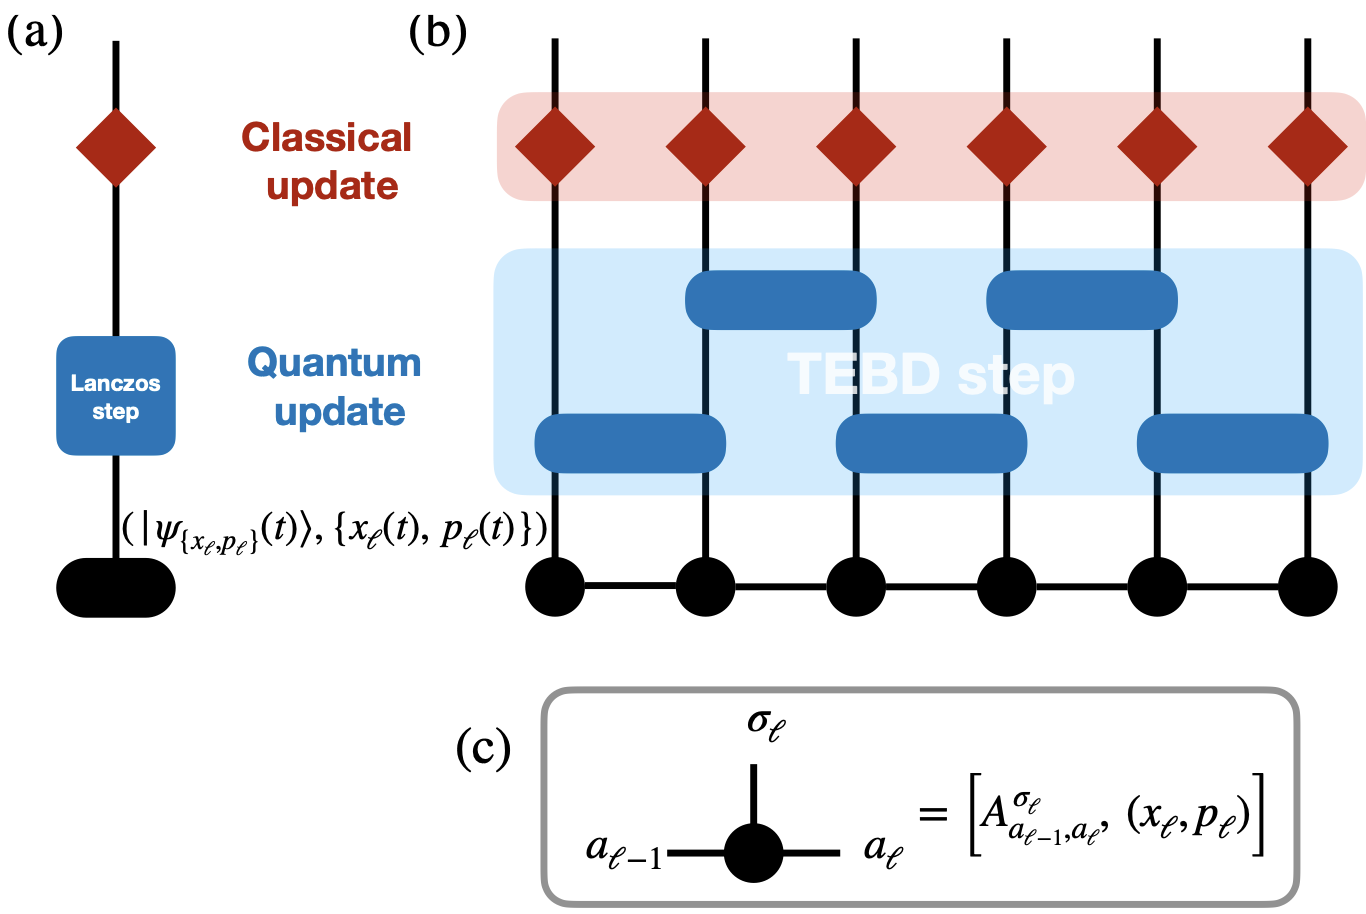
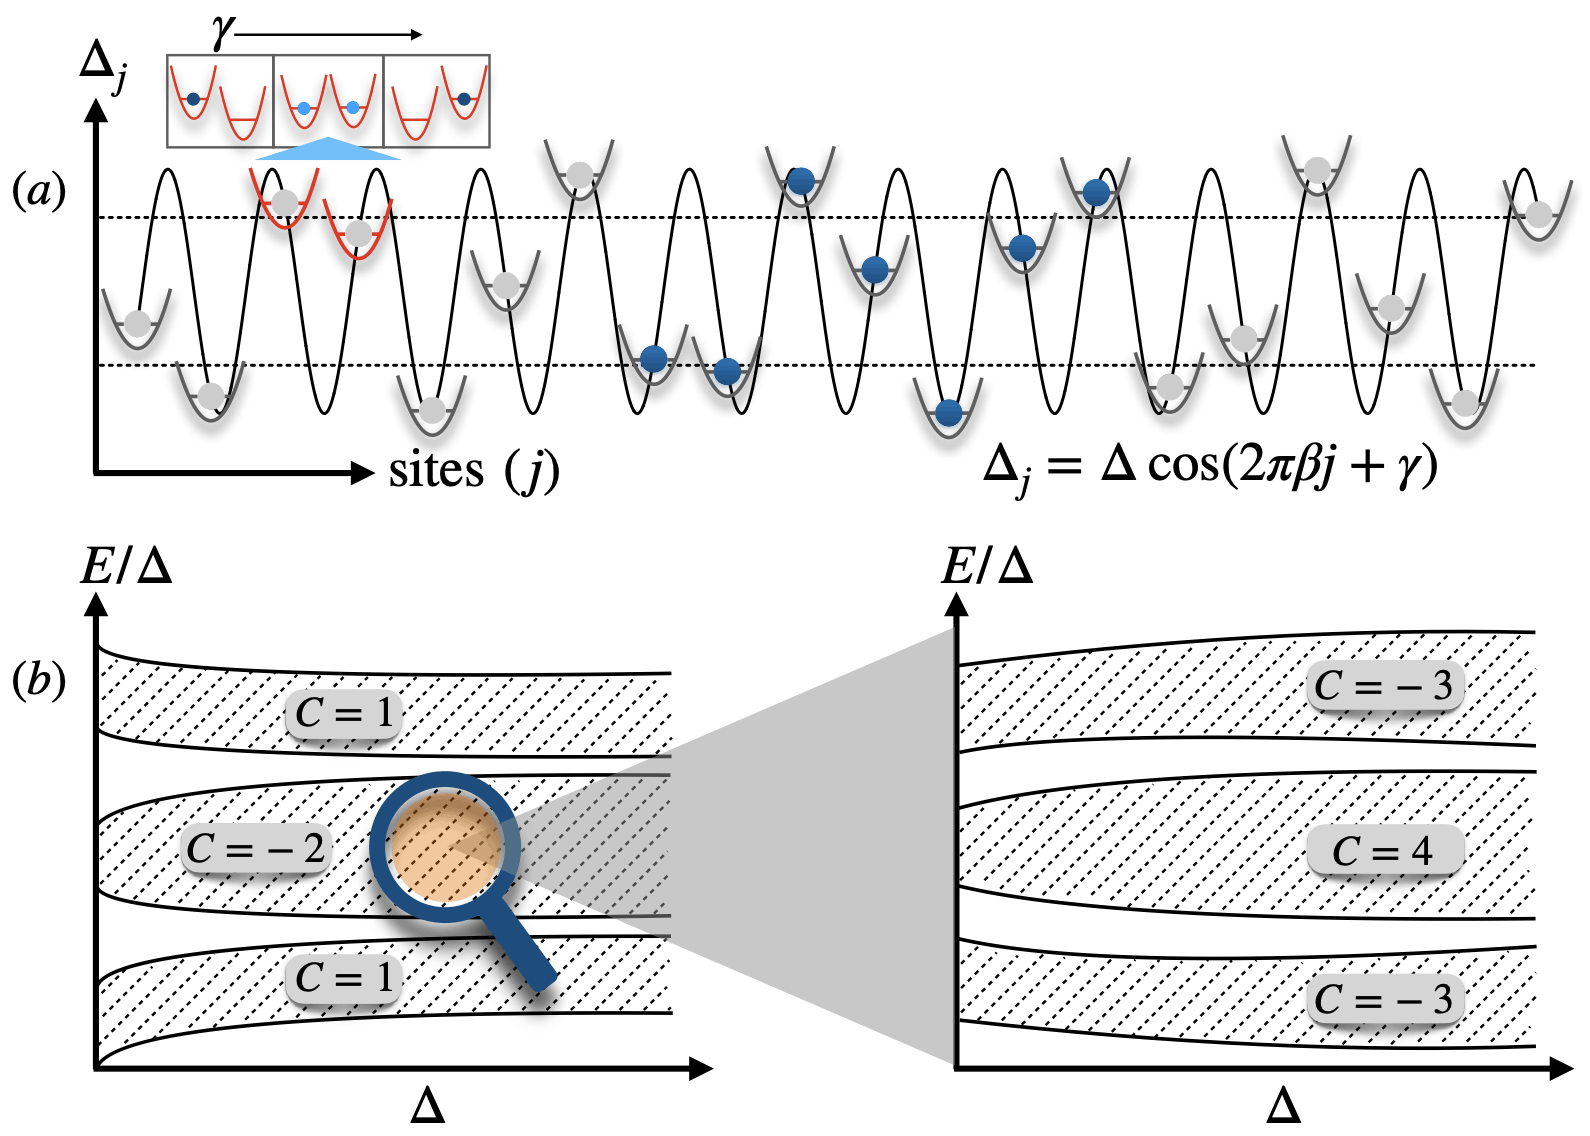
Floquet DMRG added

diff --git a/research.html b/research.html
@@ -31,11 +31,11 @@
             <a href="#thouless" class="blue-text-tag">2.2. Thouless pumps</a>
 
             <a href="#non-equilibrium" class="green-text-tag"><strong>3. Non-Equilibrium Physics →</strong></a>
-            <a href="#few-body" class="blue-text-tag">3.1. Few-body dynamics</a>
-            <a href="#mbl" class="blue-text-tag">3.2. Many-body localization</a>
-            <a href="#kcms" class="blue-text-tag">3.3. Kinetically constrained systems</a>
-            <a href="#electron-phonon" class="blue-text-tag">3.4. Electron-Phonon systems</a>
-            <a href="#floquet" class="blue-text-tag">3.5. Periodically driven systems</a>
+            <a href="#floquet" class="blue-text-tag">3.1. Periodically driven systems</a>
+            <a href="#few-body" class="blue-text-tag">3.2. Few-body dynamics</a>
+            <a href="#mbl" class="blue-text-tag">3.3. Many-body localization</a>
+            <a href="#kcms" class="blue-text-tag">3.4. Kinetically constrained systems</a>
+            <a href="#electron-phonon" class="blue-text-tag">3.5. Electron-Phonon systems</a>
 
             <a href="#quantum-computation" class="green-text-tag"><strong>4. Quantum computation</strong></a>
         </div>
@@ -205,8 +205,47 @@
         <div id="non-equilibrium">
             <h2 style="margin-top: 1.5rem; color: var(--accent-green);">3. Non-Equilibrium Physics</h2>
 
+            <div class="research-topic" id="floquet">
+                <h3>3.1. Periodically driven systems</h3>
+                <div class="research-topic-content">
+                    <img src="research/images/floquet.png" alt="Periodically Driven Systems" class="research-image">
+                    <div class="research-content">
+                        <p>
+                            Periodically driven (Floquet) systems offer a powerful route to engineer
+                            non-equilibrium phases of matter that have no equilibrium counterpart such as
+                            Floquet topological phases, time crystals, and dynamically stabilised order.
+                        </p>
+                        <p style="margin-top: 0.8rem;">
+                            Clean, interacting, periodically driven systems are believed to thermalize to featureless, infinite-temperature states 
+                            that preclude the formation of stable ordered states. In our work, we show stable quantum order, distinct from prethermal order, 
+                            and its phase transitions in the ground state of the average-energy operator. Decomposing the time evolution into geometric 
+                            and average-energy dynamics, we apply Geometric Floquet theory to identify the Floquet ground state. 
+                            We derive a general variational principle to compute the Floquet ground state in large interacting periodically driven systems, 
+                            and use it to develop a matrix product state algorithm. 
+                            In driven nonintegrable chains of more than 100 interacting spins, our numerical simulations exhibit a gapped, area-law entangled Floquet 
+                            ground state in extended parameter regimes; the ground-state manifold can support both dressed equilibrium order (e.g., Floquet antiferromagnets) 
+                            and inherently nonequilibrium order (e.g., ground-state time crystals). This quantum order is protected by a finite average-energy gap, 
+                            which closes at phase transition points upon changing model parameters. We decompose Floquet phases of matter into their equilibrium and nonequilibrium elements: 
+                            whereas the Floquet ground state at any fixed time is a representative of an equilibrium phase of matter, the nonequilibrium content is entirely produced by the 
+                            drive holonomy and is geometric. As a mechanism for the stability against heating of gapped Floquet ground states in nonintegrable quantum systems, we identify quasilocal counterdiabatic driving, 
+                            and argue why Floquet ground states evade the Eigenstate Thermalization Hypothesis. Our work enables the study of interacting nonequilibrium matter deep into 
+                            the many-body regime, and lays the foundations for the engineering of strongly correlated ordered quantum states.
+                        </p>
+                        <p style="margin-top: 0.8rem;"><strong>Relevant publications:</strong></p>
+                        <ul style="margin-left: 1.5rem; line-height: 1.8;">
+                            <li>
+                                S. M., Paul M. Schindler and Marin Bukov,
+                                <em>Floquet ground state order</em>,
+                                <a href="https://doi.org/10.48550/arXiv.2610.28336" target="_blank">arXiv:2610.28336 (2026)</a>.
+                            </li>
+                        </ul>
+                    </div>
+                </div>
+            </div>
+            
+
             <div class="research-topic" id="few-body">
-                <h3>3.1. Few-body dynamics</h3>
+                <h3>3.2. Few-body dynamics</h3>
                 <div class="research-topic-content">
                     <img src="research/images/few_body.png" alt="Few-body Dynamics" class="research-image">
                     <div class="research-content">
@@ -248,7 +287,7 @@
             </div>
 
             <div class="research-topic" id="mbl">
-                <h3>3.2. Many-body localization</h3>
+                <h3>3.3. Many-body localization</h3>
                 <div class="research-topic-content">
                     <img src="research/images/mbl.png" alt="Many-body Localization" class="research-image">
                     <div class="research-content">
@@ -289,7 +328,7 @@
             </div>
 
             <div class="research-topic" id="kcms">
-                <h3>3.3. Kinetically constrained systems</h3>
+                <h3>3.4. Kinetically constrained systems</h3>
                 <div class="research-topic-content">
                     <img src="research/images/kcm.png" alt="Kinetically Constrained Models" class="research-image">
                     <div class="research-content">
@@ -319,7 +358,7 @@
             </div>
 
             <div class="research-topic" id="electron-phonon">
-                <h3>3.4. Electron-Phonon systems</h3>
+                <h3>3.5. Electron-Phonon systems</h3>
                 <div class="research-topic-content">
                     <img src="research/images/e_ph.png" alt="Electron-Phonon Systems" class="research-image">
                     <div class="research-content">
@@ -348,44 +387,6 @@
                                 S. M., E. Bertok, and F. Heidrich-Meisner,
                                 <em>Phonon-induced breakdown of Thouless pumping in the Rice-Mele-Holstein model</em>,
                                 <a href="https://journals.aps.org/prb/abstract/10.1103/PhysRevB.106.235118" target="_blank">Phys. Rev. B 106, 235118 (2022)</a>.
-                            </li>
-                        </ul>
-                    </div>
-                </div>
-            </div>
-
-            <div class="research-topic" id="floquet">
-                <h3>3.5. Periodically driven systems</h3>
-                <div class="research-topic-content">
-                    <img src="research/images/floquet.png" alt="Periodically Driven Systems" class="research-image">
-                    <div class="research-content">
-                        <p>
-                            Periodically driven (Floquet) systems offer a powerful route to engineer
-                            non-equilibrium phases of matter that have no equilibrium counterpart such as
-                            Floquet topological phases, time crystals, and dynamically stabilised order.
-                        </p>
-                        <p style="margin-top: 0.8rem;">
-                            Clean, interacting, periodically driven systems are believed to thermalize to featureless, infinite-temperature states 
-                            that preclude the formation of stable ordered states. In our work, we show stable quantum order, distinct from prethermal order, 
-                            and its phase transitions in the ground state of the average-energy operator. Decomposing the time evolution into geometric 
-                            and average-energy dynamics, we apply Geometric Floquet theory to identify the Floquet ground state. 
-                            We derive a general variational principle to compute the Floquet ground state in large interacting periodically driven systems, 
-                            and use it to develop a matrix product state algorithm. 
-                            In driven nonintegrable chains of more than 100 interacting spins, our numerical simulations exhibit a gapped, area-law entangled Floquet 
-                            ground state in extended parameter regimes; the ground-state manifold can support both dressed equilibrium order (e.g., Floquet antiferromagnets) 
-                            and inherently nonequilibrium order (e.g., ground-state time crystals). This quantum order is protected by a finite average-energy gap, 
-                            which closes at phase transition points upon changing model parameters. We decompose Floquet phases of matter into their equilibrium and nonequilibrium elements: 
-                            whereas the Floquet ground state at any fixed time is a representative of an equilibrium phase of matter, the nonequilibrium content is entirely produced by the 
-                            drive holonomy and is geometric. As a mechanism for the stability against heating of gapped Floquet ground states in nonintegrable quantum systems, we identify quasilocal counterdiabatic driving, 
-                            and argue why Floquet ground states evade the Eigenstate Thermalization Hypothesis. Our work enables the study of interacting nonequilibrium matter deep into 
-                            the many-body regime, and lays the foundations for the engineering of strongly correlated ordered quantum states.
-                        </p>
-                        <p style="margin-top: 0.8rem;"><strong>Relevant publications:</strong></p>
-                        <ul style="margin-left: 1.5rem; line-height: 1.8;">
-                            <li>
-                                S. M., Paul M. Schindler and Marin Bukov,
-                                <em>Floquet ground state order</em>,
-                                <a href="https://doi.org/10.48550/arXiv.2610.28336" target="_blank">arXiv:2610.28336 (2026)</a>.
                             </li>
                         </ul>
                     </div>

diff --git a/numerical.html b/numerical.html
@@ -52,10 +52,10 @@
             <a href="#ED" class="blue-text-tag">1. Exact Diagonalization</a>
             <a href="#CMFT" class="blue-text-tag">2. Cluster Mean Field Theory</a>
             <a href="#MPS" class="blue-text-tag">3. Matrix Product State (MPS)</a>
-            <a href="#DMRG" class="blue-text-tag">4. Drnsity Matrix Renormalization Group (DMRG)</a>
-            <a href="#FDMRG" class="blue-text-tag">5. Floquet DMRG</a>
+            <a href="#DMRG" class="blue-text-tag">4. Density Matrix Renormalization Group (DMRG)</a>
             <a href="#TEBD" class="blue-text-tag">6. Time-Evolution Block Decimation (TEBD)</a>
             <p class="red-text-tag">Our contributions →</p>
+            <a href="#FDMRG" class="blue-text-tag">5. Floquet DMRG</a>
             <a href="#semiclassical-tebd" class="blue-text-tag">7. Semi-classical TEBD</a>
         </div>
         
@@ -175,8 +175,34 @@
                 </div>
             </div>
 
+            <div class="research-topic" id="TEBD">
+                <h3>5. Time-Evolution Block Decimation</h3>
+                <div class="research-topic-content">
+                    <img src="numerical/images/TEBD/tebd.svg" alt="TEBD" class="research-image-medium">
+                    <div class="research-content">
+                        <p>
+                            The time evolution of a quantum state of a strongly correlated 
+                            many-body system with time-dependent Hamiltonian is a highly 
+                            nontrivial problem. Because of the tremendous success of the DMRG 
+                            method in addressing the equilibrium properties of strongly 
+                            correlated systems, different attempts have been made to study 
+                            non-equilibrium properties using the time-dependent DMRG 
+                            method. G. Vidal 
+                            developed an algorithm to simulate the time evolution of the 
+                            many-body states. In the algorithm, the truncated
+                            Hilbert space dynamically adapts itself for better accuracy. This 
+                            algorithm is called the time-evolving block decimation (TEBD), which 
+                            fits perfectly with the MPS framework.
+                        </p>
+                        <p style="margin-top: 1rem;">
+                            <a href="/numerical/TEBD" class="read-more-link">Learn more →</a>
+                        </p>
+                    </div>
+                </div>
+            </div>
+
             <div class="research-topic" id="FDMRG">
-                <h3>5. Floquet DMRG</h3>
+                <h3>6. Floquet DMRG</h3>
                 <div class="research-topic-content">
                     <img src="numerical/images/FDMRG/fdmrg.png" alt="Floquet DMRG" class="research-image">
                     <div class="research-content">
@@ -213,32 +239,6 @@
                                 <a href="https://doi.org/10.48550/arXiv.2610.28336" target="_blank">arXiv:2610.28336 (2026)</a>.
                             </li>
                         </ul>
-                    </div>
-                </div>
-            </div>
-
-            <div class="research-topic" id="TEBD">
-                <h3>6. Time-Evolution Block Decimation</h3>
-                <div class="research-topic-content">
-                    <img src="numerical/images/TEBD/tebd.svg" alt="TEBD" class="research-image-medium">
-                    <div class="research-content">
-                        <p>
-                            The time evolution of a quantum state of a strongly correlated 
-                            many-body system with time-dependent Hamiltonian is a highly 
-                            nontrivial problem. Because of the tremendous success of the DMRG 
-                            method in addressing the equilibrium properties of strongly 
-                            correlated systems, different attempts have been made to study 
-                            non-equilibrium properties using the time-dependent DMRG 
-                            method. G. Vidal 
-                            developed an algorithm to simulate the time evolution of the 
-                            many-body states. In the algorithm, the truncated
-                            Hilbert space dynamically adapts itself for better accuracy. This 
-                            algorithm is called the time-evolving block decimation (TEBD), which 
-                            fits perfectly with the MPS framework.
-                        </p>
-                        <p style="margin-top: 1rem;">
-                            <a href="/numerical/TEBD" class="read-more-link">Learn more →</a>
-                        </p>
                     </div>
                 </div>
             </div>

diff --git a/index.html b/index.html
@@ -113,7 +113,7 @@
                     <p class="blue-text-tag">Electron-Phonon systems</p>
                     <p class="blue-text-tag">Periodically driven systems</p>
 
-                    <p class="blue-text-tag">Quantum computation</p>
+                    <!-- <p class="blue-text-tag">Quantum computation</p> -->
                     <p class="blue-text-tag">Matrix Product States</p>
                     <p class="blue-text-tag">DMRG</p>
                     <p class="blue-text-tag">Floquet DMRG</p>
@@ -131,6 +131,22 @@
             <div class="publication">
                 <div class="publication-content">
                     <div class="publication-title">
+                        Floquet ground state order
+                    </div>
+                    <div class="publication-authors">
+                        <strong>Suman Mondal</strong>, Paul M. Schindler and Marin Bukov
+                    </div>
+                    <div class="publication-venue">
+                        arXiv:2610.28336 (2026)
+                    </div>
+                    <a href="https://doi.org/10.48550/arXiv.2610.28336" target="_blank">View on arXiv →</a>
+                </div>
+                <img src="images/new_pub/pub1.png" alt="Publication 3" class="publication-image">
+            </div>
+
+            <div class="publication">
+                <div class="publication-content">
+                    <div class="publication-title">
                         Breakdown of bosonic Thouless pump due to interaction in a quasiperiodic lattice
                     </div>
                     <div class="publication-authors">
@@ -141,7 +157,7 @@
                     </div>
                     <a href="https://arxiv.org/abs/2601.18229" target="_blank">View on arXiv →</a>
                 </div>
-                <img src="images/new_pub/pub1.png" alt="Publication 1" class="publication-image">
+                <img src="images/new_pub/pub2.png" alt="Publication 1" class="publication-image">
             </div>
             
             <div class="publication">
@@ -157,23 +173,7 @@
                     </div>
                     <a href="https://arxiv.org/abs/2512.10899" target="_blank">View on arXiv →</a>
                 </div>
-                <img src="images/new_pub/pub2.png" alt="Publication 2" class="publication-image">
-            </div>
-
-            <div class="publication">
-                <div class="publication-content">
-                    <div class="publication-title">
-                        Anomalous slow-down of the bound state dynamics in a non-locally coupled quantum circuit
-                    </div>
-                    <div class="publication-authors">
-                        Biswajit Paul, <strong>Suman Mondal</strong> and Tapan Mishra
-                    </div>
-                    <div class="publication-venue">
-                        arXiv:2506.09818 (2025)
-                    </div>
-                    <a href="https://arxiv.org/abs/2506.09818" target="_blank">View on arXiv →</a>
-                </div>
-                <img src="images/new_pub/pub3.png" alt="Publication 3" class="publication-image">
+                <img src="images/new_pub/pub3.png" alt="Publication 2" class="publication-image">
             </div>
 
             <p style="text-align: center; margin-top: 2rem;">
